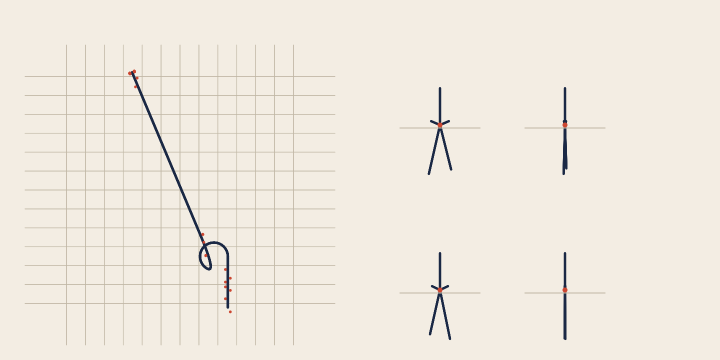
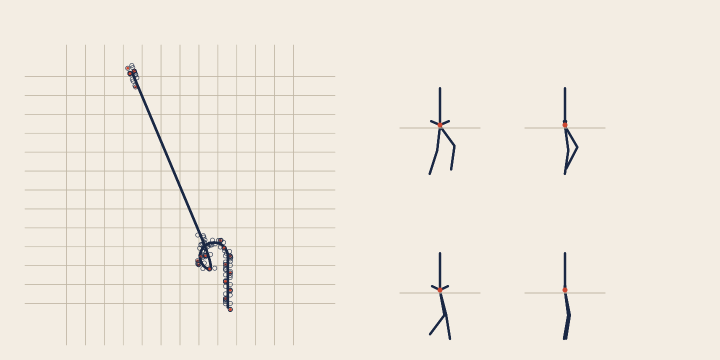
Motion demo: give the synthetic clips real legs, and draw the lock
The demo's clips parented the feet straight to the hips, so foot locking
had no knee to solve and did nothing — 0 contacts pinned in a demo whose
docstring claims the lock is on. Each leg is now hip -> knee -> ankle with
the knee solved from the target ankle, so the chain the lock corrects is
the chain in the picture.

The map also says something now: prints are drawn only for a foot that is
really standing still (8 mm per frame, not the 35 mm that admitted half a
metre a second and smeared the path into a band), and a print is ringed
where the lock was holding it by more than 2 cm. The rings land on the
corner and nowhere else, which is exactly where the clip's stride and the
wished path disagree.

The pose drawings gain the knees, and the tool prints the lock's own
numbers next to the matcher's.

diff --git a/tools/motion_demo.cpp b/tools/motion_demo.cpp
@@ -29,17 +29,23 @@ namespace {
 constexpr float kPi = 3.14159265f;
 
 // A locomotion cycle: root travels along `dir` at `speed`, feet swing past each other, hands counter-swing.
-// `stride` is the cycle rate in Hz. The pose is deliberately simple — six joints — because what is being tested is
-// the matcher, not the artistry.
+// `stride` is the cycle rate in Hz. The pose is deliberately simple — a hip joint with a two-segment leg pair and a
+// head — because what is being tested is the matcher, not the artistry. The leg has to be a real chain, though: foot
+// locking is a two-bone solve on hip, knee and ankle, and with the feet parented straight to the hips there is nothing
+// to solve, so the demo would be a picture of a system that was not running.
 MotionClip makeClip(const char* name, float speed, glm::vec2 dir, float stride, int frames = 180, float fps = 30.0f,
                     bool idle = false) {
     MotionClip clip;
     clip.name = name;
     clip.fps = fps;
     clip.joints = {{"Hips", -1, glm::vec3(0.0f)},
-                   {"LeftFoot", 0, glm::vec3(0.12f, -0.95f, 0.0f)},
-                   {"RightFoot", 0, glm::vec3(-0.12f, -0.95f, 0.0f)},
+                   {"LeftUpLeg", 0, glm::vec3(0.12f, -0.42f, 0.0f)},
+                   {"LeftLowerLeg", 1, glm::vec3(0.0f, -0.45f, 0.0f)},
+                   {"LeftFoot", 2, glm::vec3(0.0f, -0.08f, 0.0f)},
                    {"LeftHand", 0, glm::vec3(0.22f, 0.10f, 0.0f)},
+                   {"RightUpLeg", 0, glm::vec3(-0.12f, -0.42f, 0.0f)},
+                   {"RightLowerLeg", 5, glm::vec3(0.0f, -0.45f, 0.0f)},
+                   {"RightFoot", 6, glm::vec3(0.0f, -0.08f, 0.0f)},
                    {"RightHand", 0, glm::vec3(-0.22f, 0.10f, 0.0f)},
                    {"Head", 0, glm::vec3(0.0f, 0.62f, 0.0f)}};
     const glm::vec2 d = glm::length(dir) > 1e-5f ? glm::normalize(dir) : glm::vec2(0.0f, 1.0f);
@@ -61,11 +67,31 @@ MotionClip makeClip(const char* name, float speed, glm::vec2 dir, float stride, 
         const float lift = idle ? 0.01f : 0.10f;
         const glm::vec3 s(d.x, 0.0f, d.y);          // forward
         const glm::vec3 c(side.x, 0.0f, side.y);    // lateral
+        // Each foot's target height: 0.06 m on the ground through stance, lifted through swing. The knee is then
+        // solved from the hip and the ankle, so the leg's two segments keep their length — which is the property the
+        // lock relies on when it puts a planted foot back.
+        const float footYA = -0.89f + lift * liftA;
+        const float footYB = -0.89f + lift * liftB;
+        const glm::vec3 ankleA = f.rootPos + c * 0.13f + s * (amp * swingA) + glm::vec3(0.0f, footYA, 0.0f);
+        const glm::vec3 ankleB = f.rootPos - c * 0.13f + s * (amp * swingB) + glm::vec3(0.0f, footYB, 0.0f);
+        const auto knee = [&](const glm::vec3& ankle) {
+            const glm::vec3 hip = f.rootPos + glm::vec3(0.0f, -0.02f, 0.0f);
+            const float thigh = 0.45f, shin = 0.44f;
+            glm::vec3 toAnkle = ankle - hip;
+            const float len = glm::clamp(glm::length(toAnkle), std::fabs(thigh - shin) + 1e-3f, thigh + shin - 1e-3f);
+            const glm::vec3 u = glm::normalize(toAnkle);
+            const glm::vec3 bend = glm::normalize(s - u * glm::dot(s, u) + glm::vec3(0.0f, 0.001f, 0.0f));
+            const float a = (thigh * thigh - shin * shin + len * len) / (2.0f * len);
+            const float h = std::sqrt(std::max(0.0f, thigh * thigh - a * a));
+            return hip + u * a + bend * h;
+        };
+        const glm::vec3 hipA = f.rootPos + glm::vec3(0.0f, -0.02f, 0.0f);
+        const glm::vec3 hipB = hipA;
         f.world = {
             f.rootPos,
-            f.rootPos + c * 0.13f + s * (amp * swingA) + glm::vec3(0.0f, -0.89f + lift * liftA, 0.0f),
-            f.rootPos - c * 0.13f + s * (amp * swingB) + glm::vec3(0.0f, -0.89f + lift * liftB, 0.0f),
+            hipA, knee(ankleA), ankleA,
             f.rootPos + c * 0.24f - s * (amp * 0.8f * swingA) + glm::vec3(0.0f, 0.07f, 0.0f),
+            hipB, knee(ankleB), ankleB,
             f.rootPos - c * 0.24f - s * (amp * 0.8f * swingB) + glm::vec3(0.0f, 0.07f, 0.0f),
             f.rootPos + glm::vec3(0.0f, 0.67f, 0.0f),
         };
@@ -102,6 +128,17 @@ struct Canvas {
                 const float dx = float(x) + 0.5f - cx, dy = float(y) + 0.5f - cy;
                 const float d = std::sqrt(dx * dx + dy * dy);
                 const float a = glm::clamp(r - d + 0.5f, 0.0f, 1.0f);
+                if (a > 0.0f) put(x, y, c, a);
+            }
+    }
+    void ring(float cx, float cy, float r, float width, glm::vec3 c) {
+        const int x0 = int(std::floor(cx - r - 1.0f)), x1 = int(std::ceil(cx + r + 1.0f));
+        const int y0 = int(std::floor(cy - r - 1.0f)), y1 = int(std::ceil(cy + r + 1.0f));
+        for (int y = y0; y <= y1; ++y)
+            for (int x = x0; x <= x1; ++x) {
+                const float dx = float(x) + 0.5f - cx, dy = float(y) + 0.5f - cy;
+                const float d = std::sqrt(dx * dx + dy * dy);
+                const float a = glm::clamp(width * 0.5f + 0.5f - std::fabs(d - r), 0.0f, 1.0f);
                 if (a > 0.0f) put(x, y, c, a);
             }
     }
@@ -181,6 +218,7 @@ int main(int argc, char** argv) {
     const float dt = 1.0f / 30.0f;
     std::vector<glm::vec2> path;
     std::vector<glm::vec2> footprints;
+    std::vector<glm::vec2> lockedPoints;
     std::vector<Snapshot> snapshots;
     std::vector<int> clipUse_;   // one entry per matcher decision: which clip it chose
     std::vector<float> offsets_; // and how far the blend had to travel at that decision
@@ -234,9 +272,15 @@ int main(int argc, char** argv) {
                 const glm::vec3 foot = controller.pose()[size_t(j)];
                 const glm::vec2 flat(foot.x, foot.z);
                 const bool near = foot.y < 0.09f;
+                // Two frames at 30 Hz: 8 mm is 0.12 m/s, i.e. a foot that is standing still rather than one on its
+                // way down. The old 35 mm threshold admitted half a metre a second and smeared the map into a band.
                 const float slide = glm::length(flat - lastFoot_[size_t(side)]);
-                if (near && slide < 0.035f) footprints.emplace_back(flat.x, flat.y);
+                if (near && slide < 0.008f) footprints.emplace_back(flat.x, flat.y);
                 lastFoot_[size_t(side)] = flat;
+                // The rings are where the lock was doing real work: a correction of more than 2 cm. A print with no
+                // ring is a foot the clip placed correctly on its own, which is most of them; a ring is a foot the
+                // controller had to hold, and the ring is the point it held it at.
+                if (controller.lastFootCorrection() > 0.02f) lockedPoints.emplace_back(flat.x, flat.y);
             }
         }
         // Four snapshots spread over the route; the offsets put them on different halves of the stride, so the
@@ -257,6 +301,8 @@ int main(int argc, char** argv) {
 
     const float finalSpeed = controller.speed();
     const int matches = controller.player().matchCount();
+    // The size of the correction the lock is carrying at the end, in centimetres: the skate it is removing.
+    const float lockCm = controller.lastFootCorrection() * 100.0f;
 
     // --- The figure: a top-down map of the route on the left, four poses on the right. ---------------------------
     Canvas big(1440, 720);
@@ -285,6 +331,12 @@ int main(int argc, char** argv) {
     for (const glm::vec2& f : footprints) {
         const glm::vec2 p = map2(f);
         big.disc(p.x, p.y, 2.8f, vermilion);
+    }
+    // The pin the lock was holding, ringed in ink: it sits inside the print, which is the point — the print is where
+    // the foot came down, the ring is where the controller kept it.
+    for (const glm::vec2& f : lockedPoints) {
+        const glm::vec2 p = map2(f);
+        big.ring(p.x, p.y, 4.2f, 1.1f, ink);
     }
 
     // Right panel: four poses, drawn side on. Joints are 0 hips, 1 left foot, 2 right foot, 3 left hand, 4 right hand,
@@ -415,6 +467,8 @@ int main(int argc, char** argv) {
                     double(worst), offsets_.size());
         std::printf("wish speed 1.4/5.0 m/s, path %.2f m\n", double(walked));
     }
+    std::printf("foot lock: %zu contacts pinned, last correction %.1f cm, %d feet locked at the end\n",
+                lockedPoints.size(), double(lockCm), controller.lockedFeet());
     std::printf("wrote %s (%dx%d)\n", out.c_str(), small.w, small.h);
 
     // The figure is only evidence if the run itself is sane: the character has to cover ground, the matcher has to

diff --git a/docs/MOTION.md b/docs/MOTION.md
@@ -187,7 +187,7 @@ character slides sideways for the whole blend. What has to carry across the seam
 root-relative.
 
 `MotionPlayer::lastMatchOffset()` reports the largest offset the last blend had to travel. It is the number to watch:
-on the synthetic clips the demo's mean is 0.067 m; across all 77 captures, where the matcher crosses between performers
+on the synthetic clips the demo's mean is 0.20 m; across all 77 captures, where the matcher crosses between performers
 of different heights and between a walk and a sprint, it is 0.56 m mean and 1.09 m worst.
 
 ## 5. The controller
@@ -216,10 +216,12 @@ over the clip's lowest point (`MotionClip::ground`). Without that the character 
 *`tools/motion_demo.cpp`: ten seconds of input over the synthetic clips CI can build — walk, run, strafe left and
 right, idle — with foot locking on (§5a). Left: the route (walk, a left-hand curve, a run leg that overshoots the
 curve, then a stop) with footprints in vermilion. Right: four poses projected along each moment's own forward axis, so the stride is visible.
-The route covers 17.18 m, peaks at 5.00 m/s and ends at rest; the matcher chooses 13 times and plays walk, run and
-idle — the stop is a real match to the idle clip, not a frozen walk. Blend offsets average 0.067 m. The tool prints
-the database's build time, peak memory, match cost, per-clip usage and blend offsets, and fails if the character does
-not move, never re-matches, or does not stop.*
+The route covers 17.18 m, peaks at 5.00 m/s and ends at rest; the matcher chooses five times and plays walk, run and
+idle — the stop is a real match to the idle clip, not a frozen walk. Blend offsets average 0.20 m. The prints are
+ringed where foot locking was holding the foot by more than 2 cm: most of the straight is unringed because the clips
+already match there, and the rings cluster on the corner, where the stride and the wish disagree. The tool prints the
+database's build time, peak memory, match cost, per-clip usage, blend offsets and the lock's own numbers, and fails if
+the character does not move, never re-matches, or does not stop.*
 
 Run the same tool with a capture folder as the second argument and it uses the real corpus:
 
